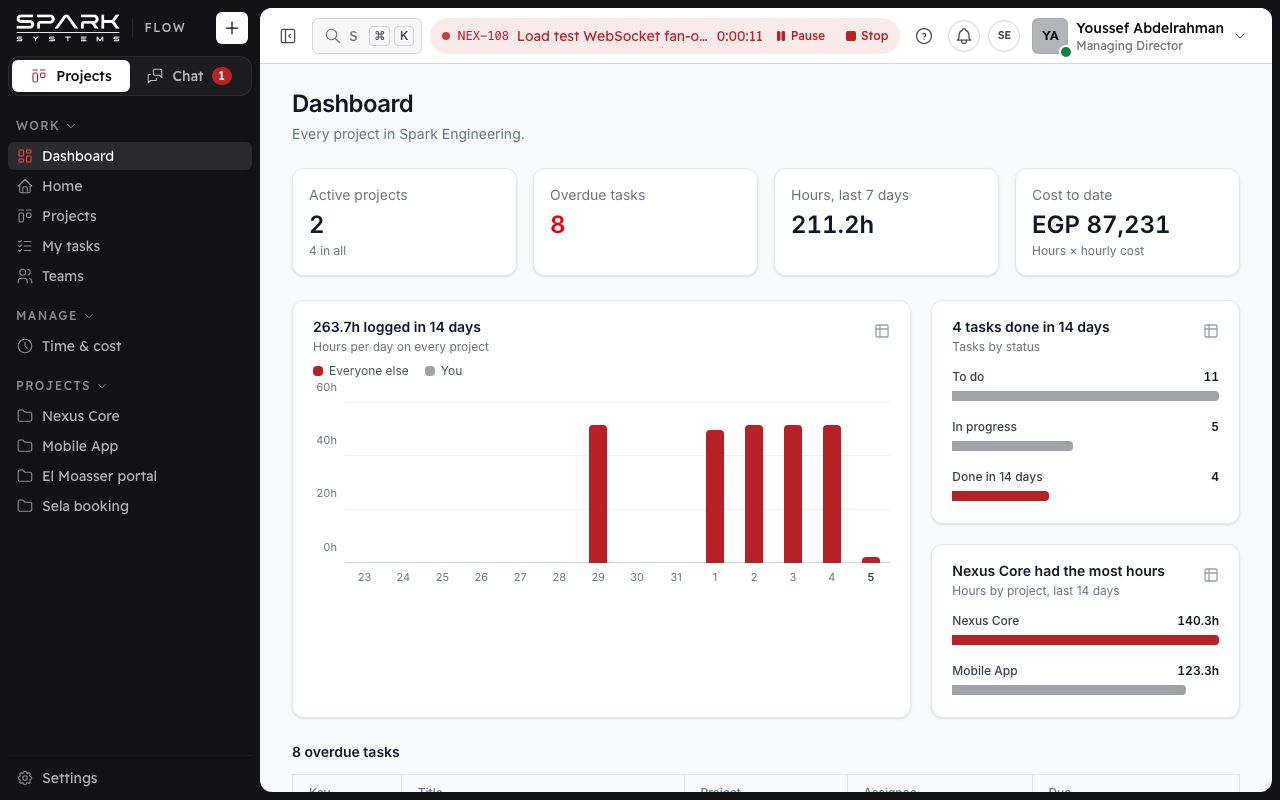
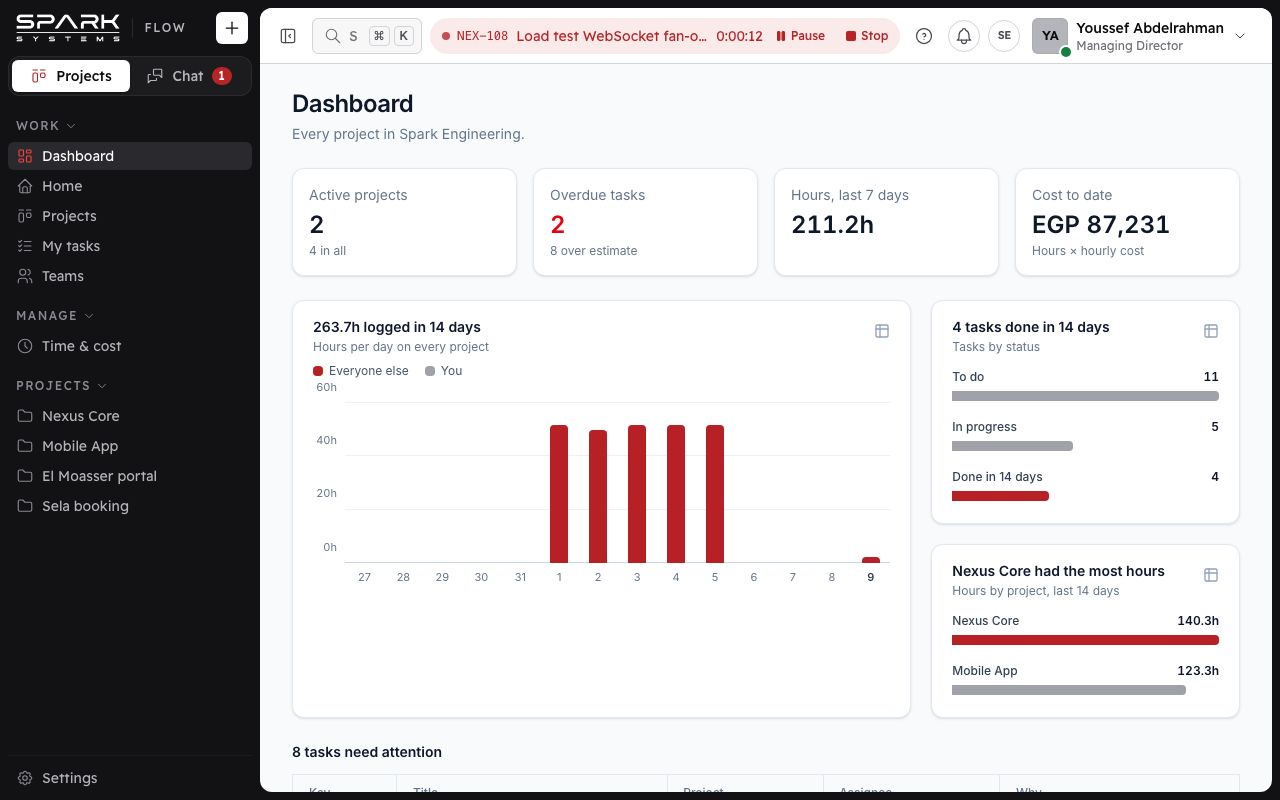
docs(ux): Phase 1 review and help pictures

diff --git a/tasks/todo.md b/tasks/todo.md
@@ -2715,20 +2715,35 @@ Branch `feat/add-time-for` from `dev` (5c501b0). Design in chat with a flow diag
   someone's entry); no DB version bump, since an entry without `addedBy` reads as its person's own; no notification
   to the person (not asked; the bell can come later).
 
-# UX Phase 1: critical usability — 9 Nov 2026, roadmap approved ("Approve, start Phase 1"); plan waits for answers
+# UX Phase 1: critical usability — 9 Nov 2026, approved ("Approve, start Phase 1"; Q1–Q5 "Yes, recommended")
 
 Audit `docs/ux-audit/2026-11-09-ui-ux-audit.md` (items 1.1–1.7). Plan with decisions, flow diagram and questions:
 `docs/superpowers/plans/2026-11-09-ux-phase-1-critical-usability.md`. Branch `feat/ux-phase-1` from `origin/dev`
-(15555e7) in `.worktrees/ux-phase-1`, once the plan is approved.
+(15555e7) in `.worktrees/ux-phase-1`.
 
-- [ ] Unsaved-changes guard: store, one router blocker, `Sheet` "Discard …?" line, page "Leave without saving?" (1.2)
-- [ ] Project and time sheets join the guard; Phases no longer closes on Esc (1.2)
-- [ ] Settings and chat forms join the guard; Roles and Hourly cost pages guarded (1.2)
-- [ ] Delete for good asks for the record's key (1.4)
-- [ ] `overEstimate` next to `overdue` in the mock and types; dashboard `attention` list (1.1)
-- [ ] "Over estimate" on screen, help, `CLAUDE.md` and spec §3 (1.1)
-- [ ] A new task opens its panel (1.5)
-- [ ] Restore channel only for those who may (1.6)
-- [ ] Phones can change time entries (1.7)
-- [ ] Project Chat tab fills the screen (1.3)
-- [ ] Phase check, help pictures, review here
+- [x] Unsaved-changes guard: store, one router blocker, `Sheet` "Discard …?" line, page "Leave without saving?" (1.2)
+- [x] Project and time sheets join the guard; Phases no longer closes on Esc (1.2)
+- [x] Settings and chat forms join the guard; Roles and Hourly cost pages guarded (1.2)
+- [x] Delete for good asks for the record's key (1.4)
+- [x] `overEstimate` next to `overdue` in the mock and types; dashboard `attention` list (1.1)
+- [x] "Over estimate" on screen, help, `CLAUDE.md` and spec §3 (1.1)
+- [x] A new task opens its panel (1.5)
+- [x] Restore channel only for those who may (1.6)
+- [x] Phones can change time entries (1.7)
+- [x] Project Chat tab fills the screen (1.3)
+- [x] Phase check, help pictures, review here
+
+## Review — UX Phase 1
+- Gates: `tsc -b` and lint clean; unit 2,143/2,143; `build:prototype` passes. Browser 2,437/2,442 in the worktree:
+  the known `RichComposer` "unknown /word" failure, and `MessageList` "Jump to latest" ×2, which fail the same way on
+  the untouched base (15555e7) checked out in a worktree with the shared `node_modules` link (they pass in the main
+  checkout): an environment effect of the worktree, not this branch. The dashboard's light and dark axe checks pass.
+- App check (Playwright on `npm run dev` of this branch, port 5175): New task → type → Cancel asks "Discard this new
+  task?"; Save opens the new task's panel; the board and the dashboard say "Over estimate"; Settings → Users → Add
+  person → type → Back asks and keeps the sheet; leaving the page load gets the browser's own prompt; Roles change →
+  sidebar link asks "Leave without saving?"; phone Time list has the ⋯ menu; the project Chat tab measures a 253 px
+  message list at 1280 × 720 (was about 150), 433 px at 1440 × 900, and at 390 × 844 with a running timer the
+  composer is clear of the bars, with no page scroll.
+- Help pictures retaken (`npm run help:shots`).
+- Rulings are in the plan workspace's ledger and the final report; the biggest: Back on a changed sheet asks, and
+  Discard closes the sheet and stays on the page (the next Back leaves it).
